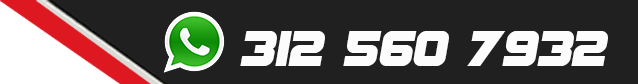
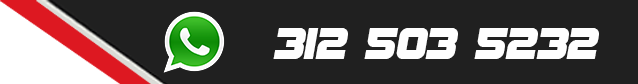
cambiando numero

Changed region(s): [[0.3574, 0.3333, 0.953, 0.7857]]

diff --git a/index.html b/index.html
@@ -24,7 +24,7 @@
         <a href="index.html"><img src="./images/logo1.jpg" ></a> 
       </div>
       <div class="contact">
-          <i class="icono fab fa-whatsapp"></i><a class="tel" href="#">312503532 | 3125607932</a><br> 
+          <i class="icono fab fa-whatsapp"></i><a class="tel" href="#">3125035232 | 3145369673</a><br> 
           <i class="icono fas fa-envelope"></i><a href="#">hercorherlmets@gmail.com</a> 
       </div>
     </header>
@@ -505,7 +505,7 @@
       <div class="item contactanos">
         <h2>Contactanos</h2>
         <span><i class="fas fa-map-marker-alt"></i> calle 58c sur#79 c 15</span>
-        <span><i class="fab fa-whatsapp"></i> 3125035232 | 3125607932</span>
+        <span><i class="fab fa-whatsapp"></i> 3125035232 | 3145369673</span>
         <span><i class="fas fa-envelope"></i> hercorherlmets@gmail.com</span>
       </div>
       <div class="item siguenos">

diff --git a/style.css b/style.css
@@ -332,6 +332,9 @@ h1{
   display: grid;
   justify-self: center;
 }
+.contactanos span {
+  margin-top: 1em;
+}
 .siguenos{
   display: block;
   grid-template-rows: 20% 80%;
